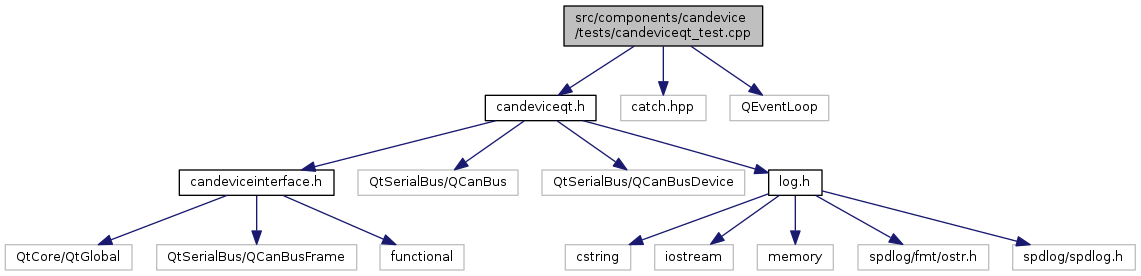
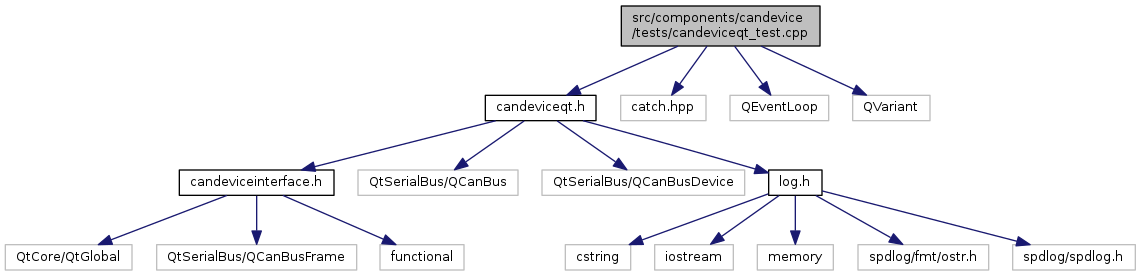
Deploy code docs to GitHub Pages Travis build: 537
Commit: fe1f54c4d48132a8923251a7b56e4d9d784cd770

diff --git a/master/candeviceqt__test_8cpp.html b/master/candeviceqt__test_8cpp.html
@@ -113,6 +113,7 @@ $(document).ready(function(){initNavTree('candeviceqt__test_8cpp.html','');});
 <div class="textblock"><code>#include &quot;<a class="el" href="candeviceqt_8h_source.html">candeviceqt.h</a>&quot;</code><br />
 <code>#include &lt;catch.hpp&gt;</code><br />
 <code>#include &lt;QEventLoop&gt;</code><br />
+<code>#include &lt;QVariant&gt;</code><br />
 </div><div class="textblock"><div class="dynheader">
 Include dependency graph for candeviceqt_test.cpp:</div>
 <div class="dyncontent">
